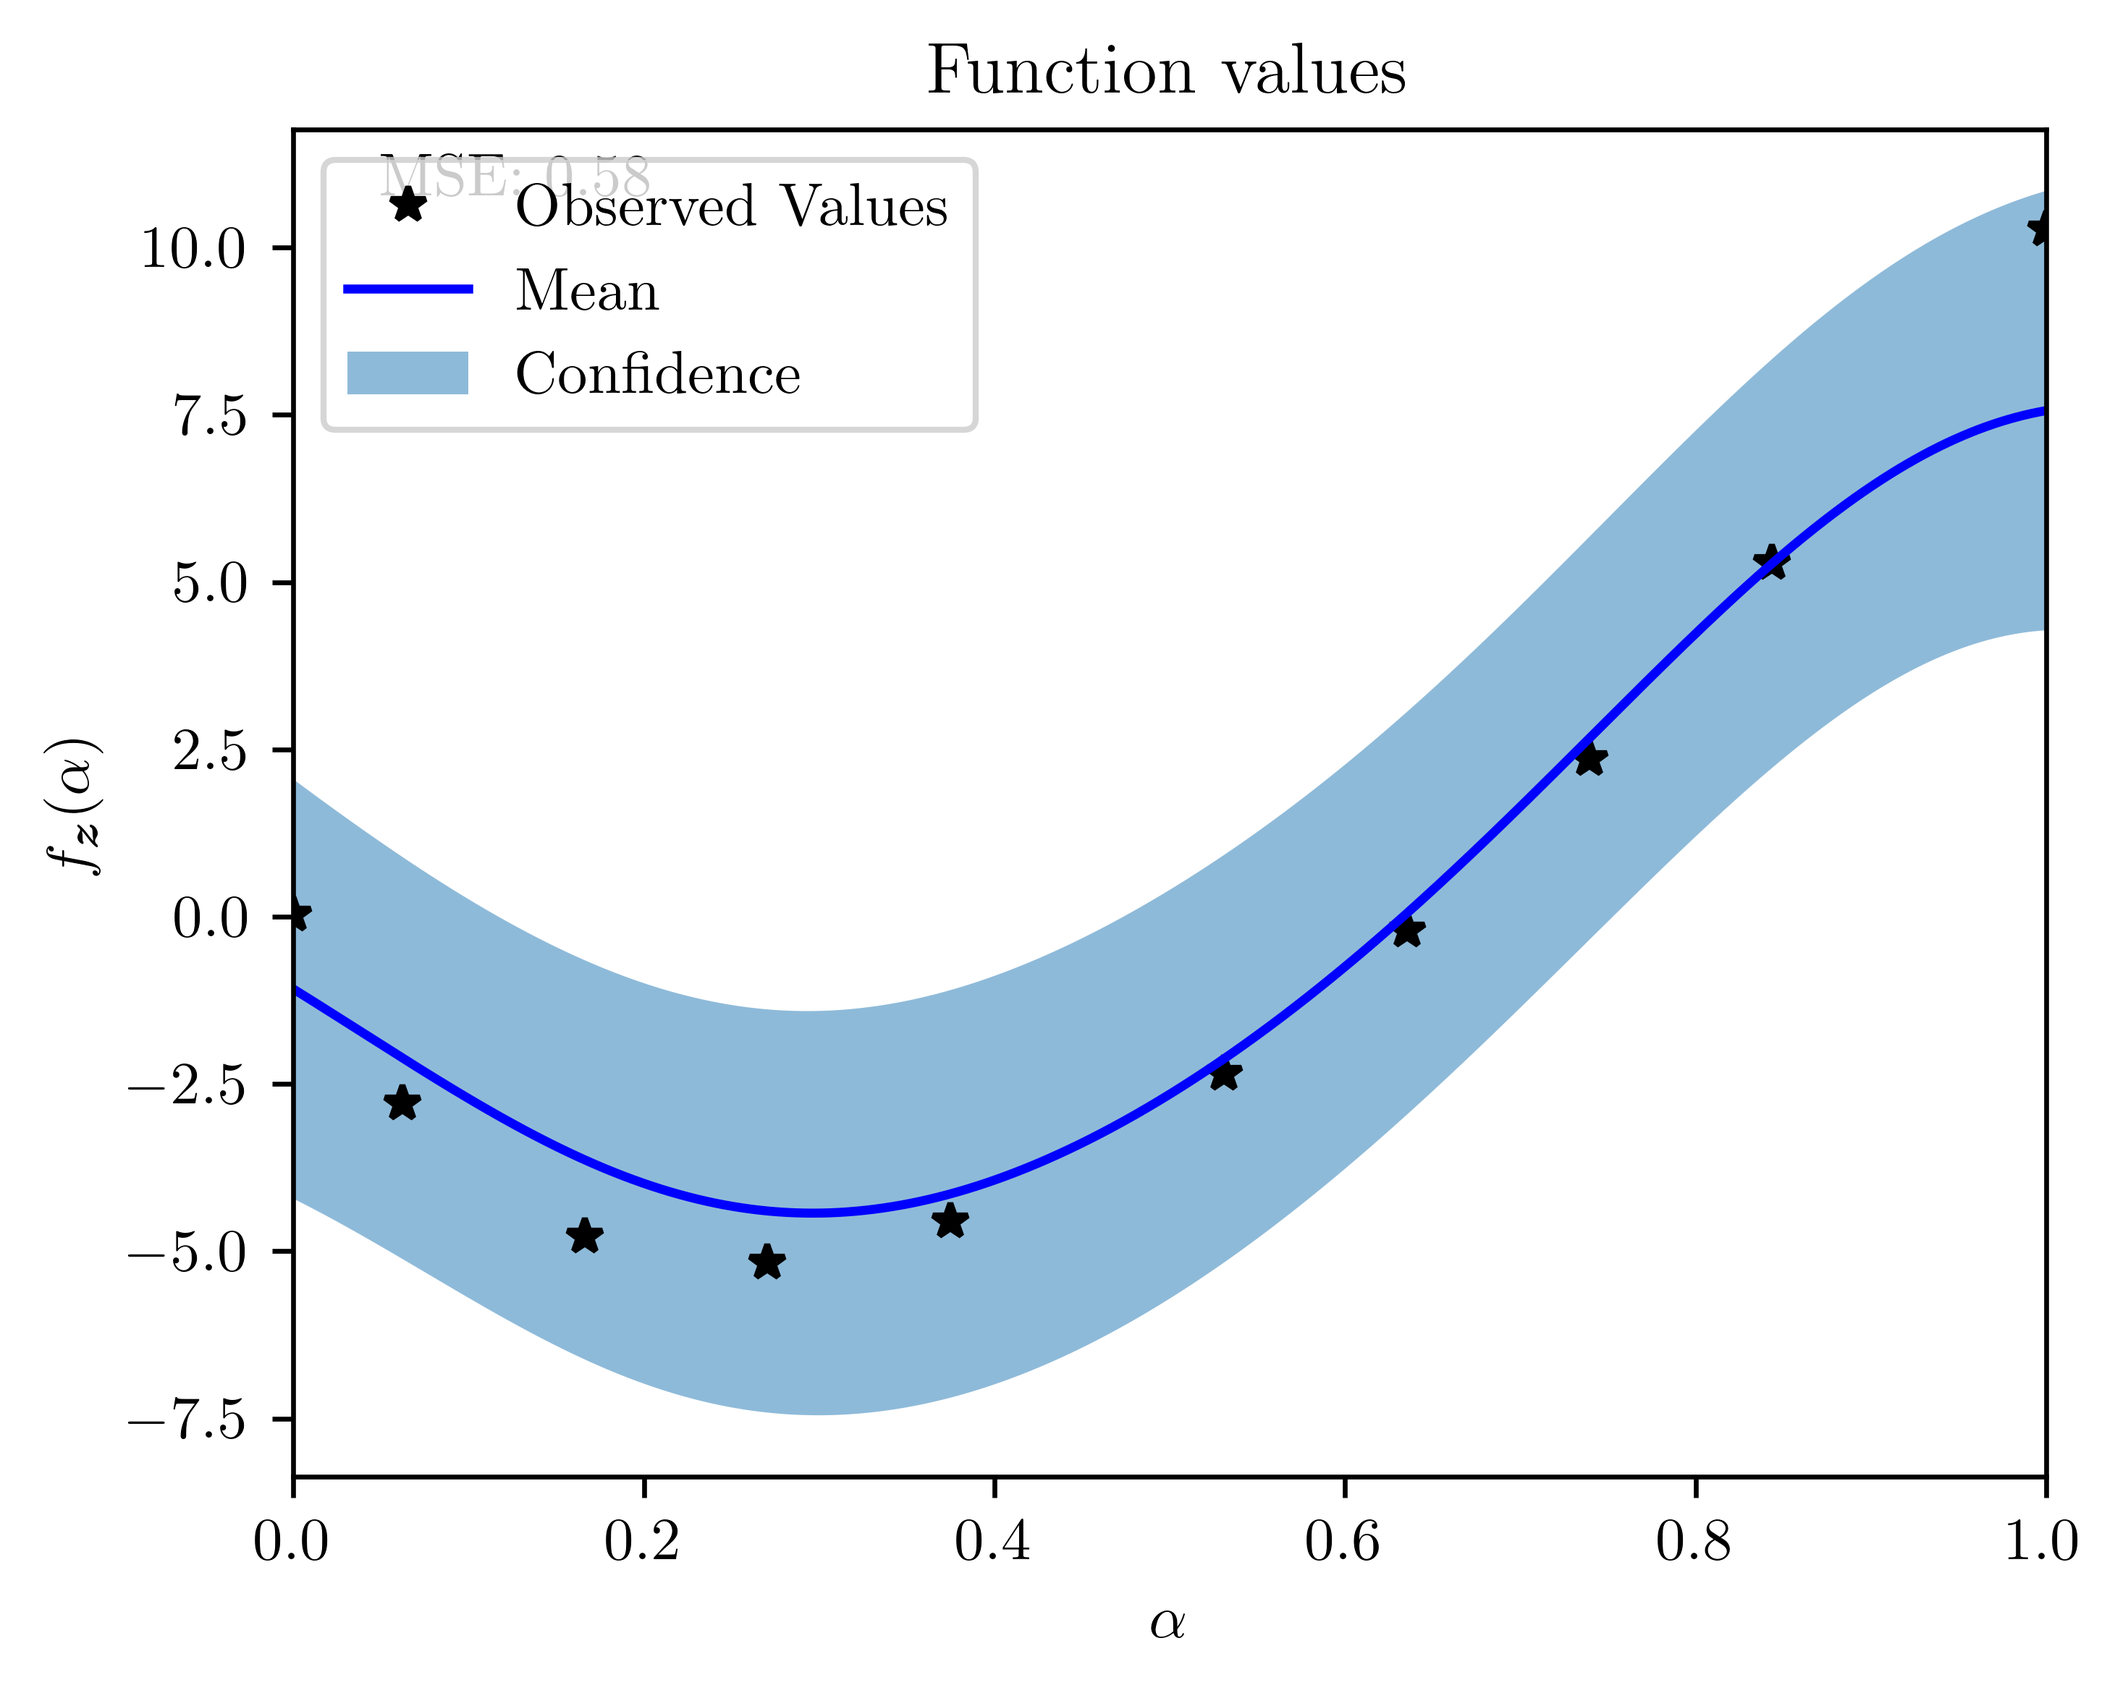
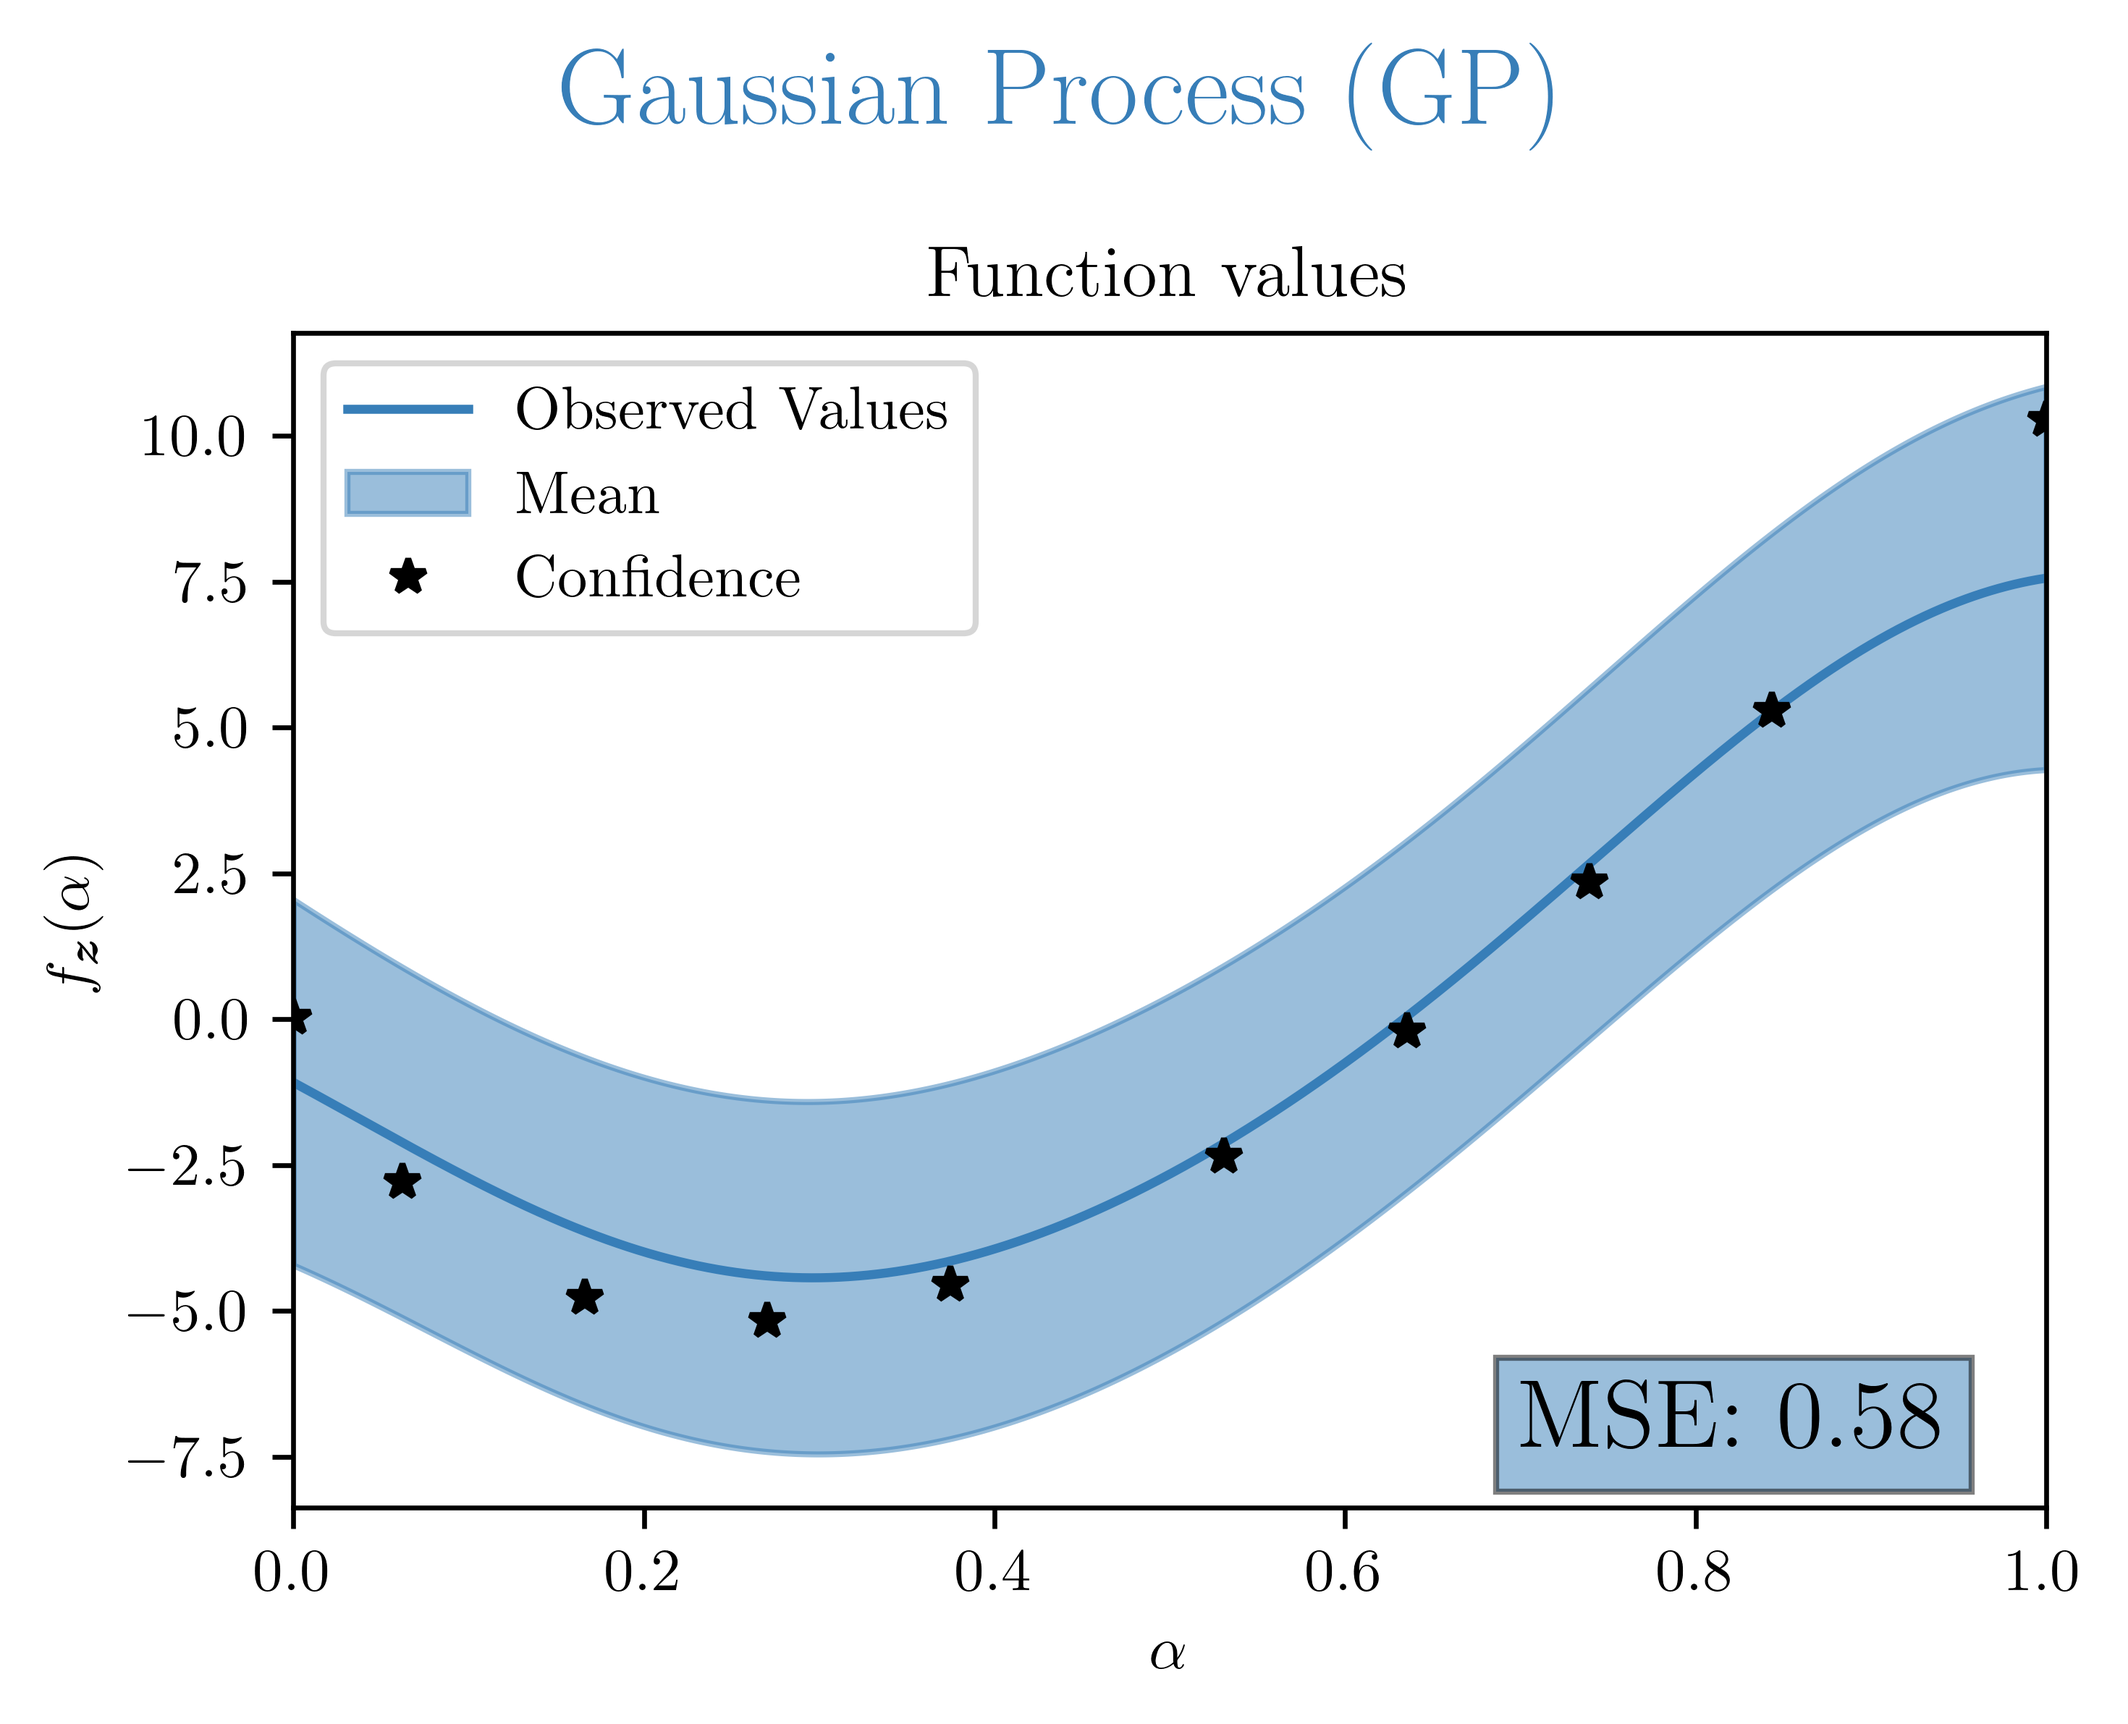
Adding code used for poster presentation

diff --git a/src/scgp/utils.py b/src/scgp/utils.py
@@ -10,6 +10,7 @@ from scgp.models import GP, SCGP
 PATH = pathlib.Path(__file__).parent.parent.parent.absolute()
 DATA_PATH = PATH / "data"
 LOGGING = False
+COLORS = ['#377eb8', '#ff7f00']
 
 matplotlib.rc('text', usetex=True)
 matplotlib.rc('font', family='serif')
@@ -147,11 +148,12 @@ def save_plot_scgp(
             mse_loss_prime = mse(mean[:, 1], test_y[:, 1])
     
     # Plotting predictions for f
-    y_ax.plot(train_x.numpy(), train_y[:, 0].numpy(), "k*")
-    y_ax.plot(test_x.numpy(), mean[:, 0].numpy(), "b")
+    y_ax.plot(test_x.numpy(), mean[:, 0].numpy(), color=COLORS[1])
     y_ax.fill_between(
-        test_x.numpy(), lower[:, 0].numpy(), upper[:, 0].numpy(), alpha=0.5
+        test_x.numpy(), lower[:, 0].numpy(), upper[:, 0].numpy(), alpha=0.5,
+        color=COLORS[1]
     )
+    y_ax.plot(train_x.numpy(), train_y[:, 0].numpy(), "k*")
     y_ax.legend(["Observed Values", "Mean", "Confidence"])
     y_ax.set_title("Function values")
     y_ax.set_xlim([0, 1])
@@ -159,17 +161,20 @@ def save_plot_scgp(
     y_ax.set_xlabel(r"$\alpha$")
     y_ax.set_ylabel(r"$f_{\boldsymbol{z}}(\alpha)$")
     if plot_mse:
-        # show mse
-        y_ax.text(0.05, 0.95, f"MSE: {mse_loss:.2f}",
-                  transform=y_ax.transAxes)
+        # show mse in bottom right (larger font)
+        y_ax.text(0.7, 0.05, f"MSE: {mse_loss:.2f}",
+                  transform=y_ax.transAxes,
+                    fontsize=16,
+                    bbox=dict(facecolor=COLORS[1], alpha=0.5))
 
     # Plotting predictions for f'
+    y_prime_ax.plot(test_x.numpy(), mean[:, 1].numpy(), color=COLORS[1])
+    y_prime_ax.fill_between(
+        test_x.numpy(), lower[:, 1].numpy(), upper[:, 1].numpy(), alpha=0.5,
+        color=COLORS[1]
+    )
     y_prime_ax.plot(train_x.numpy(), train_y[:, 1].numpy(),
                     "k*")
-    y_prime_ax.plot(test_x.numpy(), mean[:, 1].numpy(), "b")
-    y_prime_ax.fill_between(
-        test_x.numpy(), lower[:, 1].numpy(), upper[:, 1].numpy(), alpha=0.5
-    )
     y_prime_ax.legend(["Observed Derivatives", "Mean", "Confidence"])
     y_prime_ax.set_title(r"Derivatives with respect to $\alpha$")
     y_prime_ax.set_xlim([0, 1])
@@ -178,11 +183,24 @@ def save_plot_scgp(
     y_prime_ax.set_ylabel(r"$\frac{\mathrm{d}}{\mathrm{d}\alpha}f_{\boldsymbol{z}}(\alpha)$")
     if plot_mse:
         # show mse
-        y_prime_ax.text(0.05, 0.95, f"MSE: {mse_loss_prime:.2f}",
-                        transform=y_prime_ax.transAxes)
+        y_prime_ax.text(0.7, 0.05, f"MSE: {mse_loss_prime:.2f}",
+                  transform=y_prime_ax.transAxes,
+                    fontsize=16,
+                    bbox=dict(facecolor=COLORS[1], alpha=0.5))
 
     save_path = PATH / "experiments" / str(dataset_name) 
     save_path.mkdir(parents=True, exist_ok=True)
+
+    f.suptitle("Shape-constrained Gaussian Process (SCGP)",
+               fontsize=18,
+               color=COLORS[1],
+               fontweight='bold')
+    
+    # f.subplots_adjust(top=0.85, bottom=0.15, left=0.2, hspace=0.8)
+
+    # f.patch.set_linewidth(6)
+    # f.patch.set_edgecolor(COLORS[1])
+    
 
     f.savefig(save_path / (name + ".png"), dpi=600, bbox_inches="tight")
     plt.close(f)
@@ -273,11 +291,12 @@ def save_plot_gp(
     upper = upper.cpu()
     
     # Plotting predictions for f
-    y_ax.plot(train_x.numpy(), train_y.numpy(), "k*")
-    y_ax.plot(test_x.numpy(), mean.numpy(), "b")
+    y_ax.plot(test_x.numpy(), mean.numpy(), color=COLORS[0])
     y_ax.fill_between(
-        test_x.numpy(), lower.numpy(), upper.numpy(), alpha=0.5
+        test_x.numpy(), lower.numpy(), upper.numpy(), alpha=0.5,
+        color=COLORS[0]
     )
+    y_ax.plot(train_x.numpy(), train_y.numpy(), "k*")
     y_ax.legend(["Observed Values", "Mean", "Confidence"])
     y_ax.set_title("Function values")
     y_ax.set_xlim([0, 1])
@@ -286,12 +305,23 @@ def save_plot_gp(
     y_ax.set_ylabel(r"$f_{\boldsymbol{z}}(\alpha)$")
     if plot_mse:
         # show mse
-        y_ax.text(0.05, 0.95, f"MSE: {mse_loss:.2f}",
-                  transform=y_ax.transAxes)
-
+        y_ax.text(0.7, 0.05, f"MSE: {mse_loss:.2f}",
+                  transform=y_ax.transAxes,
+                  fontsize=16,
+                  bbox=dict(facecolor=COLORS[0], alpha=0.5))
     save_path = PATH / "experiments" / str(dataset_name)
     save_path.mkdir(parents=True, exist_ok=True)
 
+    f.suptitle("Gaussian Process (GP)",
+               fontsize=18,
+               color=COLORS[0],
+               fontweight='bold')
+    
+    # f.subplots_adjust(top=0.85, bottom=0.15, left=0.2, hspace=0.8)
+
+    # f.patch.set_linewidth(6)
+    # f.patch.set_edgecolor(COLORS[0])
+    
     f.savefig(save_path / (name + ".png"), dpi=600, bbox_inches="tight")
     plt.close(f)
     

diff --git a/src/experiments/reducing-points-experiment.py b/src/experiments/reducing-points-experiment.py
@@ -11,10 +11,10 @@ LOGGING = False
 
 if __name__ == "__main__":
     datasets = {
-        "uniform_new_HC": DATA_PATH / "Gaussian_logCA0_uniform_J=20_HC.csv",
+        # "uniform_new_HC": DATA_PATH / "Gaussian_logCA0_uniform_J=20_HC.csv",
         "uniform_new_MC": DATA_PATH / "Gaussian_logCA0_uniform_J=20_MC.csv",
-        "adaptive_new_HC": DATA_PATH / "Gaussian_logCA0_adaptive_J=20_HC.csv",
-        "adaptive_new_MC": DATA_PATH / "Gaussian_logCA0_adaptive_J=20_MC.csv",
+        # "adaptive_new_HC": DATA_PATH / "Gaussian_logCA0_adaptive_J=20_HC.csv",
+        # "adaptive_new_MC": DATA_PATH / "Gaussian_logCA0_adaptive_J=20_MC.csv",
     }
 
     models = {
@@ -33,8 +33,8 @@ if __name__ == "__main__":
     }
     
     scenarios = {
-        "nobs": list(range(6, 21, 2)),
-        # "nobs": [10,],
+        # "nobs": list(range(6, 21, 2)),
+        "nobs": [10, 20],
     }
     
     mse_df = pd.DataFrame(columns=["model", "scenario", "dataset", "mse"])
@@ -85,6 +85,6 @@ if __name__ == "__main__":
                     continue
                 
     # save mse_df
-    print("Saving mse_df")
-    mse_df.to_csv(PATH / "results" / "mse_df.csv", index=False)
+    # print("Saving mse_df")
+    # mse_df.to_csv(PATH / "results" / "mse_df.csv", index=False)
     # print(mse_df)
